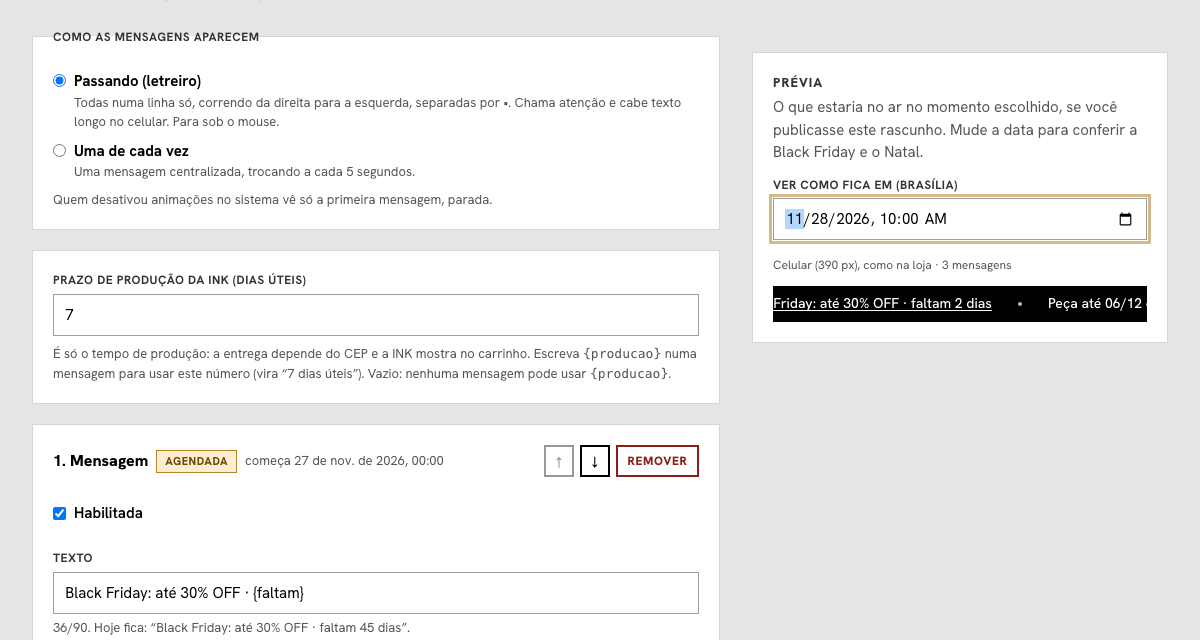
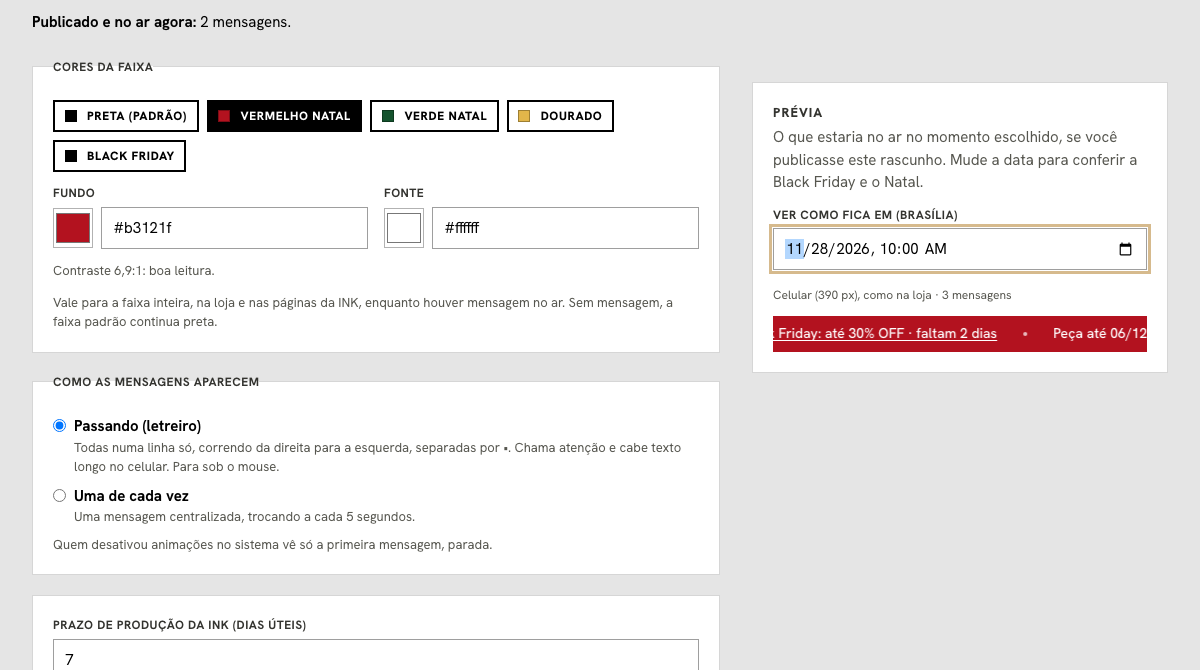
feat(storefront): cores da faixa do topo (fundo e fonte) no painel
O letreiro inteiro ganha cor própria para datas temáticas: fundo e fonte escolhidos
em Faixa do topo, com presets (Vermelho Natal, Verde Natal, Dourado, Black Friday) ou
qualquer cor. Valem na loja e, pelo payload v1 (`colors`), nas páginas da INK, só
enquanto houver mensagem no ar; sem cor, a faixa continua preta.

- contraste abaixo de 3:1 não salva; abaixo de 4,5:1 o editor avisa e sugere fonte
  branca ou preta; os presets passam de 4,5:1 (testado);
- prévia ao vivo com as cores; a tela Publicar lista a troca de cores.

Changed region(s): [[0.0, 0.0, 0.9867, 0.5938], [0.0308, 0.625, 0.6167, 1.0]]

diff --git a/src/components/admin/TopBarEditor.tsx b/src/components/admin/TopBarEditor.tsx
@@ -5,7 +5,8 @@ import type { TopBarRow } from "@/lib/admin/top-bar-form";
 import { REGIONS, type RegionSlug } from "@/lib/geo/regions";
 import { formatBrasilia, fromBrasiliaInput, promotionStatus, toBrasiliaInput, type PromotionStatus } from "@/lib/site-config/promotions";
 import { TopBarMessages } from "@/components/layout/TopBarMessages";
-import { liveTopBarMessages, MAX_PRODUCTION_DAYS, MAX_TOP_BAR_MESSAGES, TOP_BAR_TEXT_COMFORT, TOP_BAR_TEXT_MAX, topBarText, type TopBarMessage, type TopBarStyle } from "@/lib/site-config/top-bar";
+import { contrastRatio, HEX_COLOR } from "@/lib/site-config/color";
+import { liveTopBarMessages, MAX_PRODUCTION_DAYS, MAX_TOP_BAR_MESSAGES, TOP_BAR_TEXT_COMFORT, TOP_BAR_TEXT_MAX, topBarText, TOP_BAR_COLOR_PRESETS as PRESETS, type TopBarColors, type TopBarMessage, type TopBarStyle } from "@/lib/site-config/top-bar";
 
 const STATUS: Record<PromotionStatus, { text: string; cls: string }> = {
   live: { text: "No ar ao publicar", cls: "ok" },
@@ -13,6 +14,9 @@ const STATUS: Record<PromotionStatus, { text: string; cls: string }> = {
   ended: { text: "Encerrada", cls: "bad" },
   disabled: { text: "Desativada", cls: "" },
 };
+
+/** White or black, whichever reads better on `background`. */
+const readableOn = (background: string): string => (contrastRatio(background, "#ffffff") >= contrastRatio(background, "#111111") ? "#ffffff" : "#111111");
 
 const toRow = (m: TopBarMessage): TopBarRow => ({ id: m.id, enabled: m.enabled, text: m.text, href: m.href ?? "", startsAt: toBrasiliaInput(m.startsAt), endsAt: toBrasiliaInput(m.endsAt) });
 const blank = (patch: Partial<TopBarRow> = {}): TopBarRow => ({ id: "", enabled: true, text: "", href: "", startsAt: "", endsAt: "", ...patch });
@@ -37,8 +41,18 @@ function asMessage(r: TopBarRow, i: number): TopBarMessage | null {
   return message;
 }
 
-export function TopBarEditor({ region, style: savedStyle, productionDays, messages, now, readOnly, action, rev }: { region: RegionSlug; style?: TopBarStyle; productionDays?: number; messages: TopBarMessage[]; now: number; readOnly: boolean; action: (fd: FormData) => Promise<void>; rev: string }) {
+export function TopBarEditor({ region, style: savedStyle, colors: savedColors, productionDays, messages, now, readOnly, action, rev }: { region: RegionSlug; style?: TopBarStyle; colors?: TopBarColors; productionDays?: number; messages: TopBarMessage[]; now: number; readOnly: boolean; action: (fd: FormData) => Promise<void>; rev: string }) {
   const [style, setStyle] = useState<TopBarStyle>(savedStyle ?? "marquee");
+  const [custom, setCustom] = useState(savedColors !== undefined);
+  const [background, setBackground] = useState(savedColors?.background ?? "#000000");
+  const [fontColor, setFontColor] = useState(savedColors?.text ?? "#ffffff");
+  const colorsOk = HEX_COLOR.test(background) && HEX_COLOR.test(fontColor);
+  const ratio = colorsOk ? contrastRatio(background, fontColor) : 0;
+  const colors: TopBarColors | undefined = custom && colorsOk ? { background, text: fontColor } : undefined;
+  const pickPreset = (c: TopBarColors | null) => {
+    setCustom(c !== null);
+    if (c) { setBackground(c.background); setFontColor(c.text); }
+  };
   const [days, setDays] = useState(productionDays === undefined ? "" : String(productionDays));
   const [rows, setRows] = useState<TopBarRow[]>(() => messages.map(toRow));
   const [at, setAt] = useState(() => toBrasiliaInput(new Date(now).toISOString()));
@@ -68,6 +82,44 @@ export function TopBarEditor({ region, style: savedStyle, productionDays, messag
         <input type="hidden" name="messages" value={JSON.stringify(rows)} />
 
         <input type="hidden" name="style" value={style} />
+        <input type="hidden" name="colorBackground" value={custom ? background : ""} />
+        <input type="hidden" name="colorText" value={custom ? fontColor : ""} />
+        <fieldset className="a-card space-y-3 p-5">
+          <legend className="a-label">Cores da faixa</legend>
+          <div className="flex flex-wrap gap-2">
+            {PRESETS.map((p) => {
+              const on = p.colors === null ? !custom : custom && background === p.colors.background && fontColor === p.colors.text;
+              return (
+                <button key={p.name} type="button" className={`a-btn sm ${on ? "" : "ghost"}`} disabled={readOnly} onClick={() => pickPreset(p.colors)} aria-pressed={on} data-testid={`top-bar-preset-${p.name}`}>
+                  <span aria-hidden="true" className="mr-1 inline-block h-3 w-3 border border-black/30 align-middle" style={{ background: p.colors?.background ?? "#000000" }} />
+                  {p.name}
+                </button>
+              );
+            })}
+          </div>
+          <div className="grid gap-4 sm:grid-cols-2">
+            {([["bg", "Fundo", background, setBackground], ["fg", "Fonte", fontColor, setFontColor]] as const).map(([id, label, value, set]) => (
+              <div key={id}>
+                <label className="a-label" htmlFor={`tb_color_${id}`}>{label}</label>
+                <div className="flex items-center gap-2">
+                  <input type="color" aria-label={`${label} (seletor)`} className="h-10 w-12 cursor-pointer border border-black/30" value={HEX_COLOR.test(value) ? value : "#000000"} disabled={readOnly} onChange={(e) => { setCustom(true); set(e.target.value); }} />
+                  <input id={`tb_color_${id}`} className="a-input font-mono" value={value} maxLength={7} disabled={readOnly} onChange={(e) => { setCustom(true); set(e.target.value.trim()); }} data-testid={`top-bar-color-${id}`} />
+                </div>
+              </div>
+            ))}
+          </div>
+          {custom && (
+            <p className="text-[0.8125rem]" data-testid="top-bar-contrast">
+              {!colorsOk ? <strong>Use cores no formato #rrggbb.</strong>
+                : ratio < 3 ? <strong className="text-[#8c1d18]">Contraste {ratio.toFixed(1).replace(".", ",")}:1: quase não se lê. Não dá para salvar assim.</strong>
+                : ratio < 4.5 ? <strong className="text-[#6b4a0c]">Contraste {ratio.toFixed(1).replace(".", ",")}:1: lê, mas abaixo do recomendado (4,5:1).</strong>
+                : <span className="a-muted">Contraste {ratio.toFixed(1).replace(".", ",")}:1: boa leitura.</span>}
+              {colorsOk && fontColor !== readableOn(background) && ratio < 4.5 && !readOnly ? <> <button type="button" className="a-link underline" onClick={() => setFontColor(readableOn(background))}>Usar fonte {readableOn(background) === "#ffffff" ? "branca" : "preta"}</button></> : null}
+            </p>
+          )}
+          <p className="a-muted text-[0.8125rem]">Vale para a faixa inteira, na loja e nas páginas da INK, enquanto houver mensagem no ar. Sem mensagem, a faixa padrão continua preta.</p>
+        </fieldset>
+
         <fieldset className="a-card space-y-2 p-5">
           <legend className="a-label">Como as mensagens aparecem</legend>
           {([["marquee", "Passando (letreiro)", "Todas numa linha só, correndo da direita para a esquerda, separadas por •. Chama atenção e cabe texto longo no celular. Para sob o mouse."],
@@ -175,7 +227,7 @@ export function TopBarEditor({ region, style: savedStyle, productionDays, messag
             <>
               <p className="a-muted text-[0.75rem]">Celular (390 px), como na loja{live.length > 1 ? ` · ${live.length} mensagens` : ""}</p>
               <div className="on-ink w-full max-w-[390px] overflow-hidden" data-testid="top-bar-preview-item">
-                <TopBarMessages key={style} schedule={{ style, productionDays: production, messages: live }} renderedAt={previewAt} fixedNow={previewAt}>{null}</TopBarMessages>
+                <TopBarMessages key={style} schedule={{ style, colors, productionDays: production, messages: live }} renderedAt={previewAt} fixedNow={previewAt}>{null}</TopBarMessages>
               </div>
             </>
           )}

diff --git a/tests/unit/top-bar.test.ts b/tests/unit/top-bar.test.ts
@@ -4,6 +4,7 @@ import { diffDocs } from "@/lib/admin/diff";
 import { readableTopBarError, topBarFromForm, type TopBarRow } from "@/lib/admin/top-bar-form";
 import { sanitizeBundle } from "@/lib/site-config/sanitize";
 import { validateScopeDoc, type ScopeDoc } from "@/lib/site-config/schema";
+import { contrastRatio } from "@/lib/site-config/color";
 import { buildSeedBundle } from "@/lib/site-config/seed";
 import {
   daysLeftText,
@@ -13,6 +14,7 @@ import {
   topBarPayload,
   topBarSchedule,
   topBarText,
+  TOP_BAR_COLOR_PRESETS,
   validateTopBar,
   type TopBarConfig,
   type TopBarMessage,
@@ -99,6 +101,26 @@ describe("Faixa do topo: contract", () => {
     expect(topBarSchedule({ ...config, style: "rotate" }, at("2026-11-20T12:00:00-03:00"))?.style).toBe("rotate");
   });
 
+  test("colours: both #rrggbb, readable together (3:1 or more), only while a message is on; the presets read at AA", () => {
+    const red = { ...config, colors: { background: "#b3121f", text: "#ffffff" } };
+    expect(validateTopBar(red, "sul").ok).toBe(true);
+    const low = validateTopBar({ ...config, colors: { background: "#777777", text: "#888888" } }, "sul");
+    expect(low.ok).toBe(false);
+    if (!low.ok) expect(low.errors[0]).toMatch(/contrast 1\.\d:1 is below 3:1/);
+    expect(validateTopBar({ ...config, colors: { background: "red", text: "#ffffff" } }, "sul").ok).toBe(false);
+    expect(validateTopBar({ ...config, colors: { background: "#000000" } }, "sul").ok).toBe(false);
+    for (const p of TOP_BAR_COLOR_PRESETS) if (p.colors) expect(contrastRatio(p.colors.background, p.colors.text)).toBeGreaterThanOrEqual(4.5);
+    expect(topBarPayload("sul", { ...red, colors: { background: "#B3121F", text: "#FFFFFF" } }, at("2026-11-20T12:00:00-03:00")).colors).toEqual({ background: "#b3121f", text: "#ffffff" });
+    expect("colors" in topBarPayload("sul", config, Date.now())).toBe(false);
+    expect(topBarSchedule(red, at("2026-11-20T12:00:00-03:00"))?.colors).toEqual(red.colors);
+    const form = topBarFromForm([row({ text: "Natal" })], "", "sul", "", { background: "#B3121F", text: "#FFFFFF" });
+    expect(form.ok && form.value.colors).toEqual({ background: "#b3121f", text: "#ffffff" });
+    const unreadable = topBarFromForm([row({ text: "Natal" })], "", "sul", "", { background: "#777777", text: "#888888" });
+    if (!unreadable.ok) expect(unreadable.errors[0]).toMatch(/^As cores da faixa quase não se leem juntas \(contraste 1,\d:1/);
+    const plain = topBarFromForm([row({ text: "Natal" })], "", "sul", "", { background: "", text: "" });
+    expect(plain.ok && "colors" in plain.value).toBe(false);
+  });
+
   test("placeholders: {producao} needs the production time, {faltam} needs an end, anything else is refused", () => {
     const errors = (c: unknown) => { const r = validateTopBar(c, "sul"); return r.ok ? [] : r.errors; };
     expect(errors({ messages: [natal] })[0]).toMatch(/\{producao\} needs/);
@@ -157,6 +179,8 @@ describe("Faixa do topo: editor, draft and publish", () => {
     const texts = diffDocs(sul, r.doc).filter((c) => c.kind === "top-bar").map((c) => c.text);
     expect(texts).toContain("Faixa do topo, prazo de produção da INK: sem prazo → 7 dias úteis");
     expect(texts).toContain('Faixa do topo: mensagem "Black Friday: {faltam}" adicionada');
+    const red = applyOp(r.doc, { type: "set-top-bar", topBar: { ...config, colors: { background: "#b3121f", text: "#ffffff" } } }, ctx);
+    expect(red.ok && diffDocs(r.doc, red.doc).map((c) => c.text)).toContain("Faixa do topo, cores: preta (padrão) → fundo #b3121f, fonte #ffffff");
     const rotating = applyOp(r.doc, { type: "set-top-bar", topBar: { ...config, style: "rotate" } }, ctx);
     expect(rotating.ok && diffDocs(r.doc, rotating.doc).map((c) => c.text)).toContain("Faixa do topo, como as mensagens aparecem: passando (letreiro) → uma de cada vez");
     const off = applyOp(r.doc, { type: "set-top-bar", topBar: { messages: [] } }, ctx);

diff --git a/src/lib/site-config/top-bar.ts b/src/lib/site-config/top-bar.ts
@@ -3,13 +3,13 @@
  * storefront strip (server and browser), the CMS editor, the public API and the tests run the very same rules. The Worker of the INK keeps its own check
  * of the payload (`use-origens-workers/src/top-bar-gateway.js`): the contract between the two is `v: 1` below.
  */
-import { TOP_BAR_TOKENS, type TopBarConfig, type TopBarMessage, type TopBarStyle } from "./top-bar-schema";
+import { TOP_BAR_TOKENS, type TopBarColors, type TopBarConfig, type TopBarMessage, type TopBarStyle } from "./top-bar-schema";
 
 export * from "./top-bar-schema";
 
 /** One message as the public sees it: the text already filled in, the link and, when it has one, the end (a client drops it once it is over). */
 export type PublicTopBarMessage = { id: string; text: string; href?: string; endsAt?: string };
-export type PublicTopBar = { v: 1; region: string; style: TopBarStyle; messages: PublicTopBarMessage[] };
+export type PublicTopBar = { v: 1; region: string; style: TopBarStyle; colors?: TopBarColors; messages: PublicTopBarMessage[] };
 
 const at = (iso: string | undefined): number | null => (iso === undefined ? null : Date.parse(iso));
 
@@ -25,6 +25,15 @@ export function liveTopBarMessages(config: TopBarConfig | undefined, now: number
     .sort((a, b) => a.message.order - b.message.order || a.index - b.index)
     .map(({ message }) => message);
 }
+
+/** Ready-made colour pairs for the seasons in the editor (each one reads at AA, tested); `null` = the default black strip. */
+export const TOP_BAR_COLOR_PRESETS: { name: string; colors: TopBarColors | null }[] = [
+  { name: "Preta (padrão)", colors: null },
+  { name: "Vermelho Natal", colors: { background: "#b3121f", text: "#ffffff" } },
+  { name: "Verde Natal", colors: { background: "#14532d", text: "#ffffff" } },
+  { name: "Dourado", colors: { background: "#e2b64a", text: "#111111" } },
+  { name: "Black Friday", colors: { background: "#000000", text: "#f5d90a" } },
+];
 
 /** "1 dia útil", "7 dias úteis". */
 export const productionText = (days: number): string => (days === 1 ? "1 dia útil" : `${days} dias úteis`);
@@ -64,7 +73,9 @@ export function topBarPayload(region: string, config: TopBarConfig | undefined, 
     if (m.endsAt) out.endsAt = m.endsAt;
     return out;
   });
-  return { v: 1, region, style: config?.style ?? "marquee", messages };
+  const out: PublicTopBar = { v: 1, region, style: config?.style ?? "marquee", messages };
+  if (config?.colors) out.colors = { background: config.colors.background.toLowerCase(), text: config.colors.text.toLowerCase() };
+  return out;
 }
 
 /**
@@ -78,5 +89,6 @@ export function topBarSchedule(config: TopBarConfig | undefined, now: number): T
   const out: TopBarConfig = { messages };
   if (config.productionDays !== undefined) out.productionDays = config.productionDays;
   if (config.style !== undefined) out.style = config.style;
+  if (config.colors !== undefined) out.colors = config.colors;
   return out;
 }

diff --git a/src/lib/site-config/top-bar-schema.ts b/src/lib/site-config/top-bar-schema.ts
@@ -6,6 +6,7 @@
  * fills in: `{producao}` (the INK production time set here, in business days) and `{faltam}` (the days left until the message ends).
  */
 import type { Scope, ValidationResult } from "./schema";
+import { contrastRatio, HEX_COLOR } from "./color";
 import { isPromoInstant, PROMO_ID } from "./promotions-schema";
 
 export type TopBarMessage = {
@@ -26,9 +27,16 @@ export type TopBarMessage = {
 export const TOP_BAR_STYLES = ["marquee", "rotate"] as const;
 export type TopBarStyle = (typeof TOP_BAR_STYLES)[number];
 
+/** The strip's own colours (the whole strip: background and text). Absent = black with white text, as always. */
+export type TopBarColors = { background: string; text: string };
+/** Below this the text is practically unreadable: refused. Below AA (4.5) the editor only warns. */
+export const TOP_BAR_MIN_CONTRAST = 3;
+
 export type TopBarConfig = {
   /** Absent = `marquee`. */
   style?: TopBarStyle;
+  /** Absent = black strip, white text. */
+  colors?: TopBarColors;
   /** Estimated INK production time, in business days (delivery depends on the CEP and is not promised here). Absent = `{producao}` cannot be used. */
   productionDays?: number;
   messages: TopBarMessage[];
@@ -90,7 +98,15 @@ export function validateTopBar(input: unknown, scope: Scope, path = "topBar"): V
   if (scope === "global") return { ok: false, errors: [`${path}: belongs to a region`] };
   if (!isRecord(input)) return { ok: false, errors: [`${path}: must be { messages: [...] }`] };
   const errors: string[] = [];
-  for (const key of Object.keys(input)) if (key !== "messages" && key !== "productionDays" && key !== "style") errors.push(`${path}.${key}: unknown field`);
+  for (const key of Object.keys(input)) if (!["messages", "productionDays", "style", "colors"].includes(key)) errors.push(`${path}.${key}: unknown field`);
+  if (input.colors !== undefined) {
+    const c = input.colors;
+    if (!isRecord(c) || Object.keys(c).some((k) => k !== "background" && k !== "text") || typeof c.background !== "string" || !HEX_COLOR.test(c.background) || typeof c.text !== "string" || !HEX_COLOR.test(c.text)) {
+      errors.push(`${path}.colors: must be { background: #rrggbb, text: #rrggbb }`);
+    } else if (contrastRatio(c.background, c.text) < TOP_BAR_MIN_CONTRAST) {
+      errors.push(`${path}.colors: contrast ${contrastRatio(c.background, c.text).toFixed(1)}:1 is below ${TOP_BAR_MIN_CONTRAST}:1`);
+    }
+  }
   if (input.style !== undefined && !(TOP_BAR_STYLES as readonly unknown[]).includes(input.style)) errors.push(`${path}.style: marquee or rotate`);
   const days = input.productionDays;
   if (days !== undefined && (typeof days !== "number" || !Number.isInteger(days) || days < 1 || days > MAX_PRODUCTION_DAYS)) errors.push(`${path}.productionDays: an integer from 1 to ${MAX_PRODUCTION_DAYS}`);

diff --git a/src/lib/admin/top-bar-form.ts b/src/lib/admin/top-bar-form.ts
@@ -23,7 +23,8 @@ export type TopBarRow = {
 const str = (v: unknown): string => (typeof v === "string" ? v.replace(/\s+/g, " ").trim() : "");
 
 /** `style`: "rotate" = one at a time; anything else = the marquee (the default, so it is not stored). */
-export function topBarFromForm(rows: unknown, productionDays: string, scope: Scope, style = ""): Parsed<TopBarConfig> {
+/** `colors`: both empty = the default black strip; otherwise both must be colours (the validator checks the contrast). */
+export function topBarFromForm(rows: unknown, productionDays: string, scope: Scope, style = "", colors: { background?: string; text?: string } = {}): Parsed<TopBarConfig> {
   if (!Array.isArray(rows)) return { ok: false, errors: ["Lista de mensagens inválida. Recarregue a página e tente de novo."] };
   if (rows.length > MAX_TOP_BAR_MESSAGES) return { ok: false, errors: [`No máximo ${MAX_TOP_BAR_MESSAGES} mensagens por região.`] };
   const errors: string[] = [];
@@ -56,12 +57,19 @@ export function topBarFromForm(rows: unknown, productionDays: string, scope: Sco
   if (errors.length > 0) return { ok: false, errors };
   const config: TopBarConfig = production === undefined ? { messages } : { productionDays: production, messages };
   if (style === "rotate") config.style = "rotate";
+  const background = (colors.background ?? "").trim().toLowerCase();
+  const color = (colors.text ?? "").trim().toLowerCase();
+  if (background || color) config.colors = { background, text: color };
   const checked = validateTopBar(config, scope);
   return checked.ok ? { ok: true, value: checked.value } : { ok: false, errors: checked.errors.map((e) => readableTopBarError(e, scope)) };
 }
 
 /** `topBar.messages[1].text: …` → `Mensagem 2: …`, something the owner can act on. */
 export function readableTopBarError(error: string, scope: Scope): string {
+  if (error.includes(".colors")) {
+    const ratio = /contrast ([\d.]+):1/.exec(error);
+    return ratio ? `As cores da faixa quase não se leem juntas (contraste ${ratio[1].replace(".", ",")}:1; o mínimo aceito é 3:1). Use a sugestão de cor da fonte ou um fundo mais claro/escuro.` : "Escolha as duas cores da faixa (fundo e fonte) ou volte ao padrão.";
+  }
   if (error.includes(".style")) return "Escolha como as mensagens aparecem: passando ou uma de cada vez.";
   if (error.includes("productionDays")) return `O prazo de produção é um número inteiro de 1 a ${MAX_PRODUCTION_DAYS} dias úteis (ou fica vazio).`;
   const m = /messages\[(\d+)\]\.?(\w*)/.exec(error);

diff --git a/src/components/layout/TopBarMessages.tsx b/src/components/layout/TopBarMessages.tsx
@@ -54,23 +54,27 @@ export function TopBarMessages({ schedule, renderedAt, fixedNow, children }: { s
   }, [rotating]);
 
   if (live.length === 0) return <>{children}</>;
-  if (marquee) return <Marquee messages={live} productionDays={schedule.productionDays} now={now} />;
+  // The strip's own colours (CMS), only while a message is on: the default strip stays black.
+  const colors: CSSProperties | undefined = schedule.colors ? { background: schedule.colors.background, color: schedule.colors.text } : undefined;
+  if (marquee) return <div style={colors} data-testid="top-bar"><Marquee messages={live} productionDays={schedule.productionDays} now={now} /></div>;
   const message = live[(still ? 0 : turn) % live.length];
   const text = topBarText(message, schedule.productionDays, now);
   return (
-    <p
-      className={LINE}
-      data-testid="top-bar-message"
-      data-message-id={message.id}
-      onMouseEnter={() => setPaused(true)}
-      onMouseLeave={() => setPaused(false)}
-      onFocus={() => setPaused(true)}
-      onBlur={() => setPaused(false)}
-    >
-      <span key={message.id} className="top-bar-in">
-        {message.href ? <Link href={message.href} className="underline underline-offset-2">{text}</Link> : text}
-      </span>
-    </p>
+    <div style={colors} data-testid="top-bar">
+      <p
+        className={LINE}
+        data-testid="top-bar-message"
+        data-message-id={message.id}
+        onMouseEnter={() => setPaused(true)}
+        onMouseLeave={() => setPaused(false)}
+        onFocus={() => setPaused(true)}
+        onBlur={() => setPaused(false)}
+      >
+        <span key={message.id} className="top-bar-in">
+          {message.href ? <Link href={message.href} className="underline underline-offset-2">{text}</Link> : text}
+        </span>
+      </p>
+    </div>
   );
 }
 

diff --git a/src/lib/admin/diff.ts b/src/lib/admin/diff.ts
@@ -183,6 +183,8 @@ function topBarChanges(published: ScopeDoc, draft: ScopeDoc): Change[] {
   const out: Change[] = [];
   const was = published.topBar?.productionDays;
   const now = draft.topBar?.productionDays;
+  const colorsName = (doc: ScopeDoc) => (doc.topBar?.colors ? `fundo ${doc.topBar.colors.background}, fonte ${doc.topBar.colors.text}` : "preta (padrão)");
+  if (colorsName(published) !== colorsName(draft)) out.push({ kind: "top-bar", sectionId: "top-bar:colors", text: `Faixa do topo, cores: ${colorsName(published)} → ${colorsName(draft)}` });
   const styleName = (doc: ScopeDoc) => (doc.topBar?.style === "rotate" ? "uma de cada vez" : "passando (letreiro)");
   if (styleName(published) !== styleName(draft)) out.push({ kind: "top-bar", sectionId: "top-bar:style", text: `Faixa do topo, como as mensagens aparecem: ${styleName(published)} → ${styleName(draft)}` });
   if (was !== now) out.push({ kind: "top-bar", sectionId: "top-bar:production", text: `Faixa do topo, prazo de produção da INK: ${daysName(was)} → ${daysName(now)}` });

diff --git a/src/app/admin/(panel)/faixa/page.tsx b/src/app/admin/(panel)/faixa/page.tsx
@@ -33,7 +33,7 @@ export default async function TopBarPage({ searchParams }: { searchParams: Promi
         <p className="mt-2 text-[0.9375rem]" data-testid="top-bar-published-now"><strong>Publicado e no ar agora:</strong> {liveNow === 0 ? "nenhuma mensagem (faixa padrão)" : `${liveNow} ${liveNow === 1 ? "mensagem" : "mensagens"}`}.</p>
       </div>
       <Flash ok={sp.ok} err={sp.err} />
-      <TopBarEditor region={scope} style={ws.doc.topBar?.style} productionDays={ws.doc.topBar?.productionDays} messages={ws.doc.topBar?.messages ?? []} now={now} readOnly={!canEdit(actor, scope)} action={saveTopBarAction} rev={String(ws.record?.rev ?? "null")} />
+      <TopBarEditor region={scope} style={ws.doc.topBar?.style} colors={ws.doc.topBar?.colors} productionDays={ws.doc.topBar?.productionDays} messages={ws.doc.topBar?.messages ?? []} now={now} readOnly={!canEdit(actor, scope)} action={saveTopBarAction} rev={String(ws.record?.rev ?? "null")} />
     </div>
   );
 }

diff --git a/src/app/admin/actions.ts b/src/app/admin/actions.ts
@@ -672,7 +672,7 @@ export async function saveTopBarAction(fd: FormData) {
   } catch {
     back(here, { err: ["Não foi possível ler a lista. Recarregue a página e tente de novo."] });
   }
-  const parsed = topBarFromForm(rows, text(fd, "productionDays"), scope, text(fd, "style"));
+  const parsed = topBarFromForm(rows, text(fd, "productionDays"), scope, text(fd, "style"), { background: text(fd, "colorBackground"), text: text(fd, "colorText") });
   if (!parsed.ok) back(here, { err: parsed.errors });
   const outcome = await applyAndSave(scope, { type: "set-top-bar", topBar: parsed.value }, revNumber(fd), actor);
   revalidatePath("/admin", "layout");

diff --git a/src/lib/admin/draft-ops.ts b/src/lib/admin/draft-ops.ts
@@ -194,7 +194,7 @@ export function applyOp(doc: ScopeDoc, op: DraftOp, ctx: OpContext): OpResult {
   }
   if (op.type === "set-top-bar") {
     if (doc.scope === "global") return fail("the top strip belongs to a region");
-    const empty = op.topBar.messages.length === 0 && op.topBar.productionDays === undefined && op.topBar.style === undefined;
+    const empty = op.topBar.messages.length === 0 && op.topBar.productionDays === undefined && op.topBar.style === undefined && op.topBar.colors === undefined;
     const next: ScopeDoc = { ...doc, topBar: op.topBar };
     if (empty) delete next.topBar;
     const check = validateScopeDoc(next);

diff --git a/docs/storefront/faixa-do-topo.md b/docs/storefront/faixa-do-topo.md
@@ -7,6 +7,9 @@ aparecem na loja e, pelo Worker (feature `top-bar`), na faixa preta do cabeçalh
 
 - **Como as mensagens aparecem**: **passando** (letreiro, o padrão, no estilo da Aphago: todas numa linha que corre da direita para a esquerda,
   separadas por um ponto, e para sob o mouse ou com o foco) ou **uma de cada vez** (troca a cada 5 s). Quem desativou animações no sistema vê só a primeira, parada.
+- **Cores da faixa**: fundo e fonte da faixa inteira (presets Vermelho Natal, Verde Natal, Dourado, Black Friday, ou qualquer cor). Valem na loja e na INK
+  enquanto houver mensagem no ar; sem cor, a faixa preta de sempre. Contraste abaixo de 3:1 não salva; abaixo de 4,5:1 o editor avisa e sugere fonte
+  branca ou preta.
 - **Prazo de produção da INK (dias úteis)**: o "DLO". É só o tempo de produção, porque a entrega depende do CEP (a INK calcula no carrinho). Aparece no
   texto pelo marcador `{producao}` ("7 dias úteis").
 - **Mensagens** (até 10): texto de uma linha (até 90 caracteres), link opcional para uma página da própria região (`/sul/h/natal`), início e fim
@@ -35,7 +38,7 @@ aparecem na loja e, pelo Worker (feature `top-bar`), na faixa preta do cabeçalh
 ## Para a INK (Worker)
 
 - `GET /api/top-bar/<região>`: público, somente leitura, cache de 30 s. Contrato `v: 1`:
-  `{ v: 1, region, style: "marquee" | "rotate", messages: [{ id, text, href?, endsAt? }] }`, só as mensagens no ar, com o texto **já preenchido**.
+  `{ v: 1, region, style: "marquee" | "rotate", colors?: { background, text }, messages: [{ id, text, href?, endsAt? }] }`, só as mensagens no ar, com o texto **já preenchido**.
 - O Worker (`use-origens-workers`, `src/top-bar-gateway.js` + `src/loader/top-bar.js`, feature opt-in `top-bar`) re-serve isso em `/__origens/top-bar`
   e troca as frases nativas da faixa da INK pelas nossas. Sem mensagem no ar, com erro ou com a feature desligada, a faixa da INK fica como está.
   Na loja única, cada visitante vê a faixa da região dele (a mesma regra da navbar).
